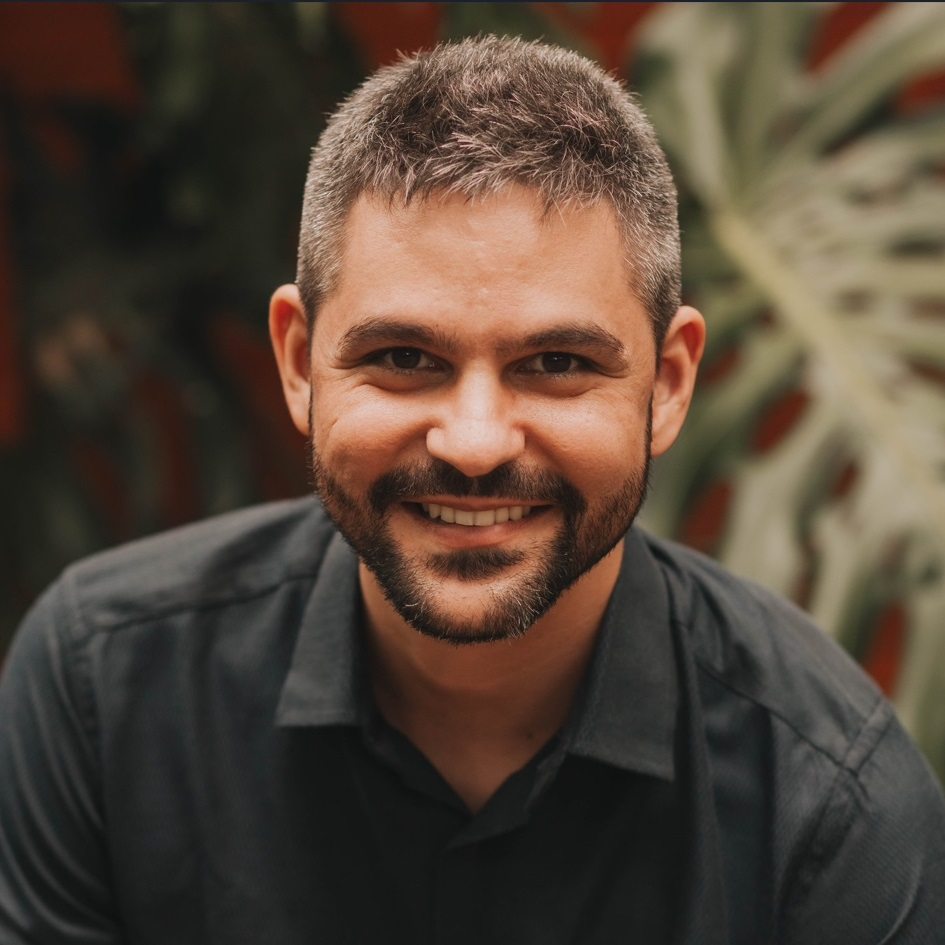
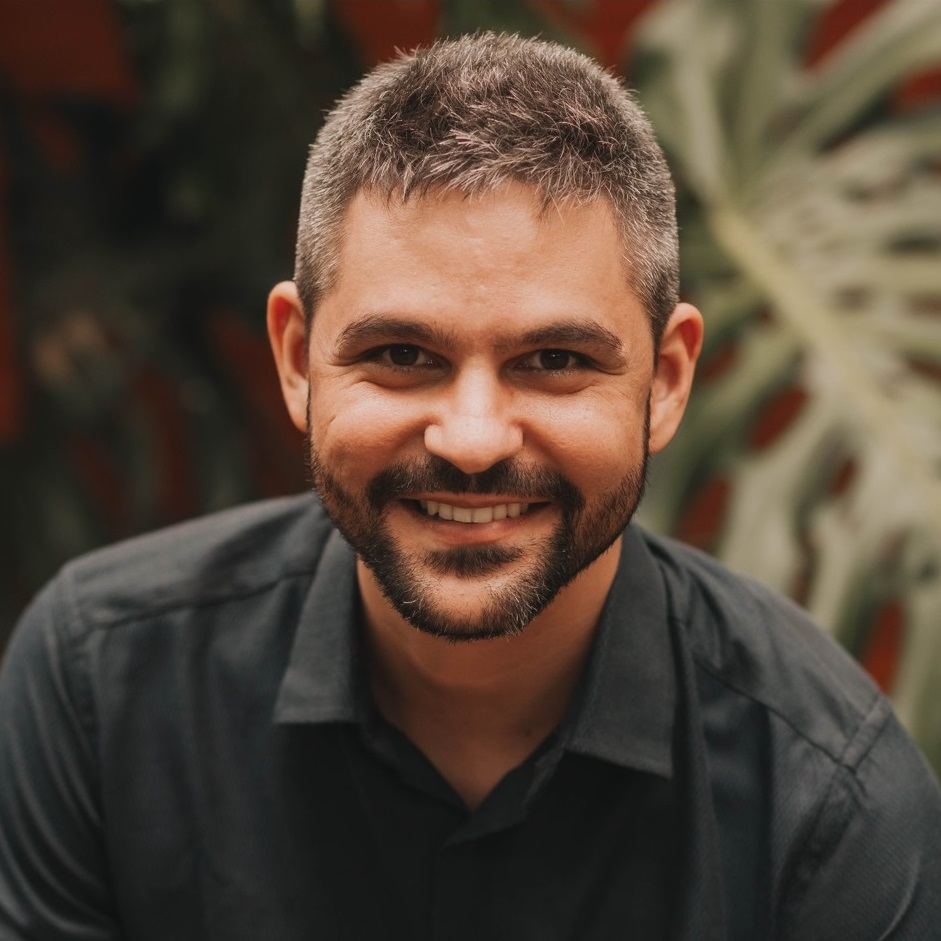
Projeto quase final

diff --git a/index.html b/index.html
@@ -9,20 +9,24 @@
 </head>
 <body>
     <header></header>
-    <main>
-        <h1>Eleve seu negócio digital a outro nível 
-            <strong>com um Front-end de qualidade!</strong></h1>
-        <p>Olá! Sou Lucas Máximo, desenvolvedor Front-end com especialidade em <strong>HTML, CSS e Javascript</strong>. 
-            Ajudo pequenos negócios e designers a colocarem em prática boas ideias. Vamos conversar?</p>
-        <a class="button" href="https://www.instagram.com/lm.maximo/">Instagram</a>
-        <a class="button" href="https://github.com/lucasmaximo">Github</a>
+    <main class="apresentacao">
+        <section class="apresentacao__conteudo">
+            <h1 class="apresentacao__conteudo__titulo">Eleve seu negócio digital a outro nível
+                <strong class="titulo-destaque">com um Front-end de qualidade!</strong></h1>
+            <p class="apresentacao__conteudo__texto">Olá! Sou Lucas Máximo, desenvolvedor Front-end com especialidade em HTML, CSS e Javascript. 
+                Ajudo pequenos negócios e designers a colocarem em prática boas ideias. Vamos conversar?</p>
+            <di class="apresentacao__links">
+                <a class="apresentacao__links_link" href="https://www.instagram.com/lm.maximo/">Instagram</a>
+                <a class="apresentacao__links_link" href="https://github.com/lucasmaximo">Github</a> 
+            </div>
+        </section>
         <img src="assets/minha-imagem.JPG" alt="Foto do Lucas Máximo">
     </main>
     <footer>
         <p>Lucas Máximo</p>
         <p>Contatos:
         (38) 99815-7928 <br>
-        lucasmaximo@outlook.com </p>
+        lucasmaximo@outlook.com</p>
     </footer>
 </body>
 </html>

diff --git a/style.css b/style.css
@@ -1,25 +1,68 @@
+@import url('https://fonts.googleapis.com/css2?family=Krona+One&family=Montserrat:wght@400;600&display=swap');
+
+* {
+    margin: 0;
+    padding: 0;
+}
+
 body {
+    height: 100vh; /* faz com que a página ocupe 100% da altura visível da tela no navegador */
+    box-sizing: border-box; /* garante que nenhum elemento exceda o tamanho lateral da página */
     background-color: #1B355D;
     color: #F2F2F2;
 }
 
-strong {
+.apresentacao {
+    margin: 10% 15%;
+    display: flex;
+    align-items: center;
+    justify-content: space-between;
+}
+
+.apresentacao__conteudo {
+    width: 615px;
+    display: flex;
+    flex-direction: column;
+    gap: 40px 0;
+}
+
+.apresentacao__conteudo__titulo {
+    font-family: "Krona One", sans-serif;
+    font-size: 36px;
+}
+
+.apresentacao__conteudo__texto {
+    font-family: "Montserrat", sans-serif;
+    font-size: 24px;
+}
+
+.titulo-destaque {
     color: #F2D7B6;
 }
 
-a.button {
-    display: inline-block;
-    padding: 10px 20px;
-    margin: 10x;
+.apresentacao__links {
+    display: flex;
+    justify-content: space-between;
+}
+
+.apresentacao__links_link {
     background-color: #F2F2F2;
     color: #1B355D;
     text-align: center;
+    width: 280px;
+    padding: 21.5px 0;
     text-decoration: none;
-    border-radius: 5px;
-    font-weight: 500;
+    border-radius: 15px;
+    font-family: "Montserrat", sans-serif;
+    font-weight: 600;
     transition: background-color 0.5s ease;
 }
-a.button:hover{
+.apresentacao__links_link:hover{
     background-color: #F2D7B6;
 }
 
+img {
+    height: 500px;
+    width: 500px;
+    border: 1px solid black;
+}
